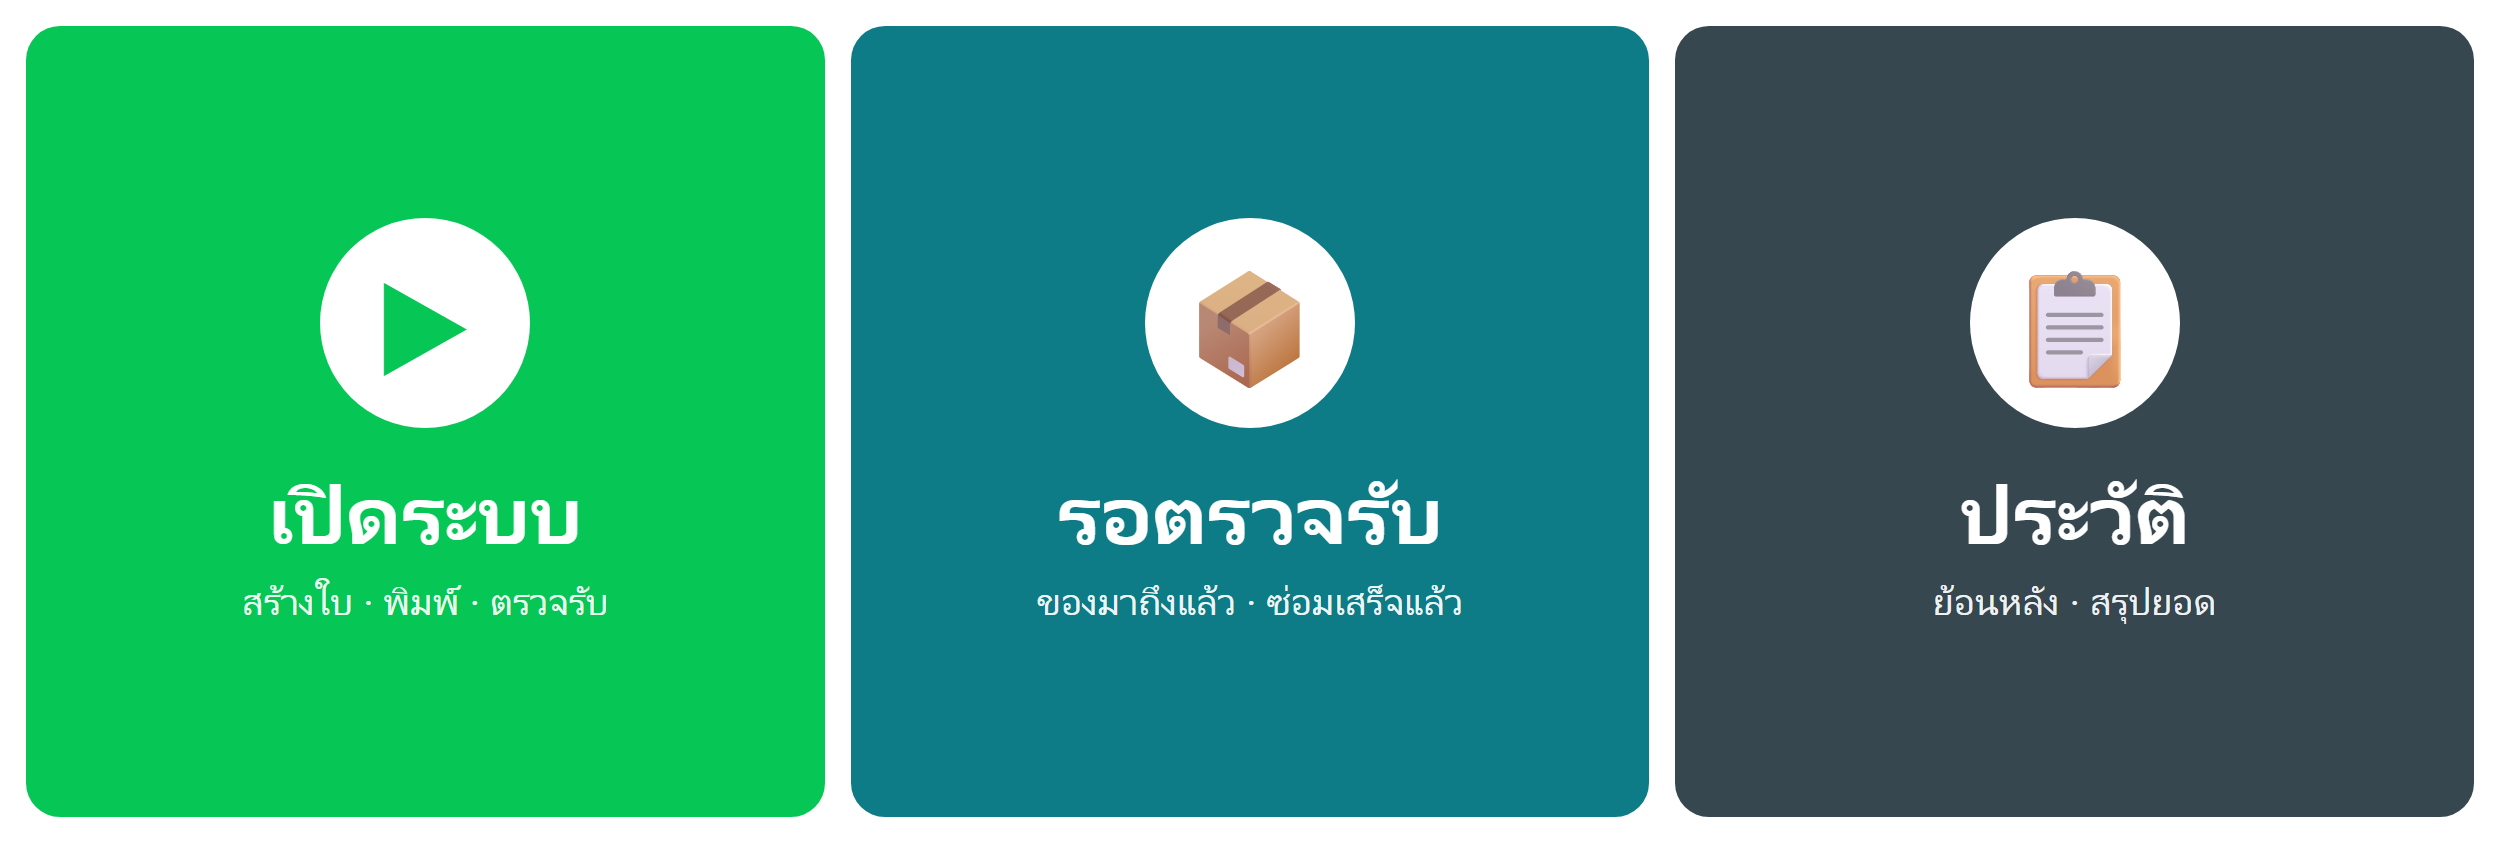
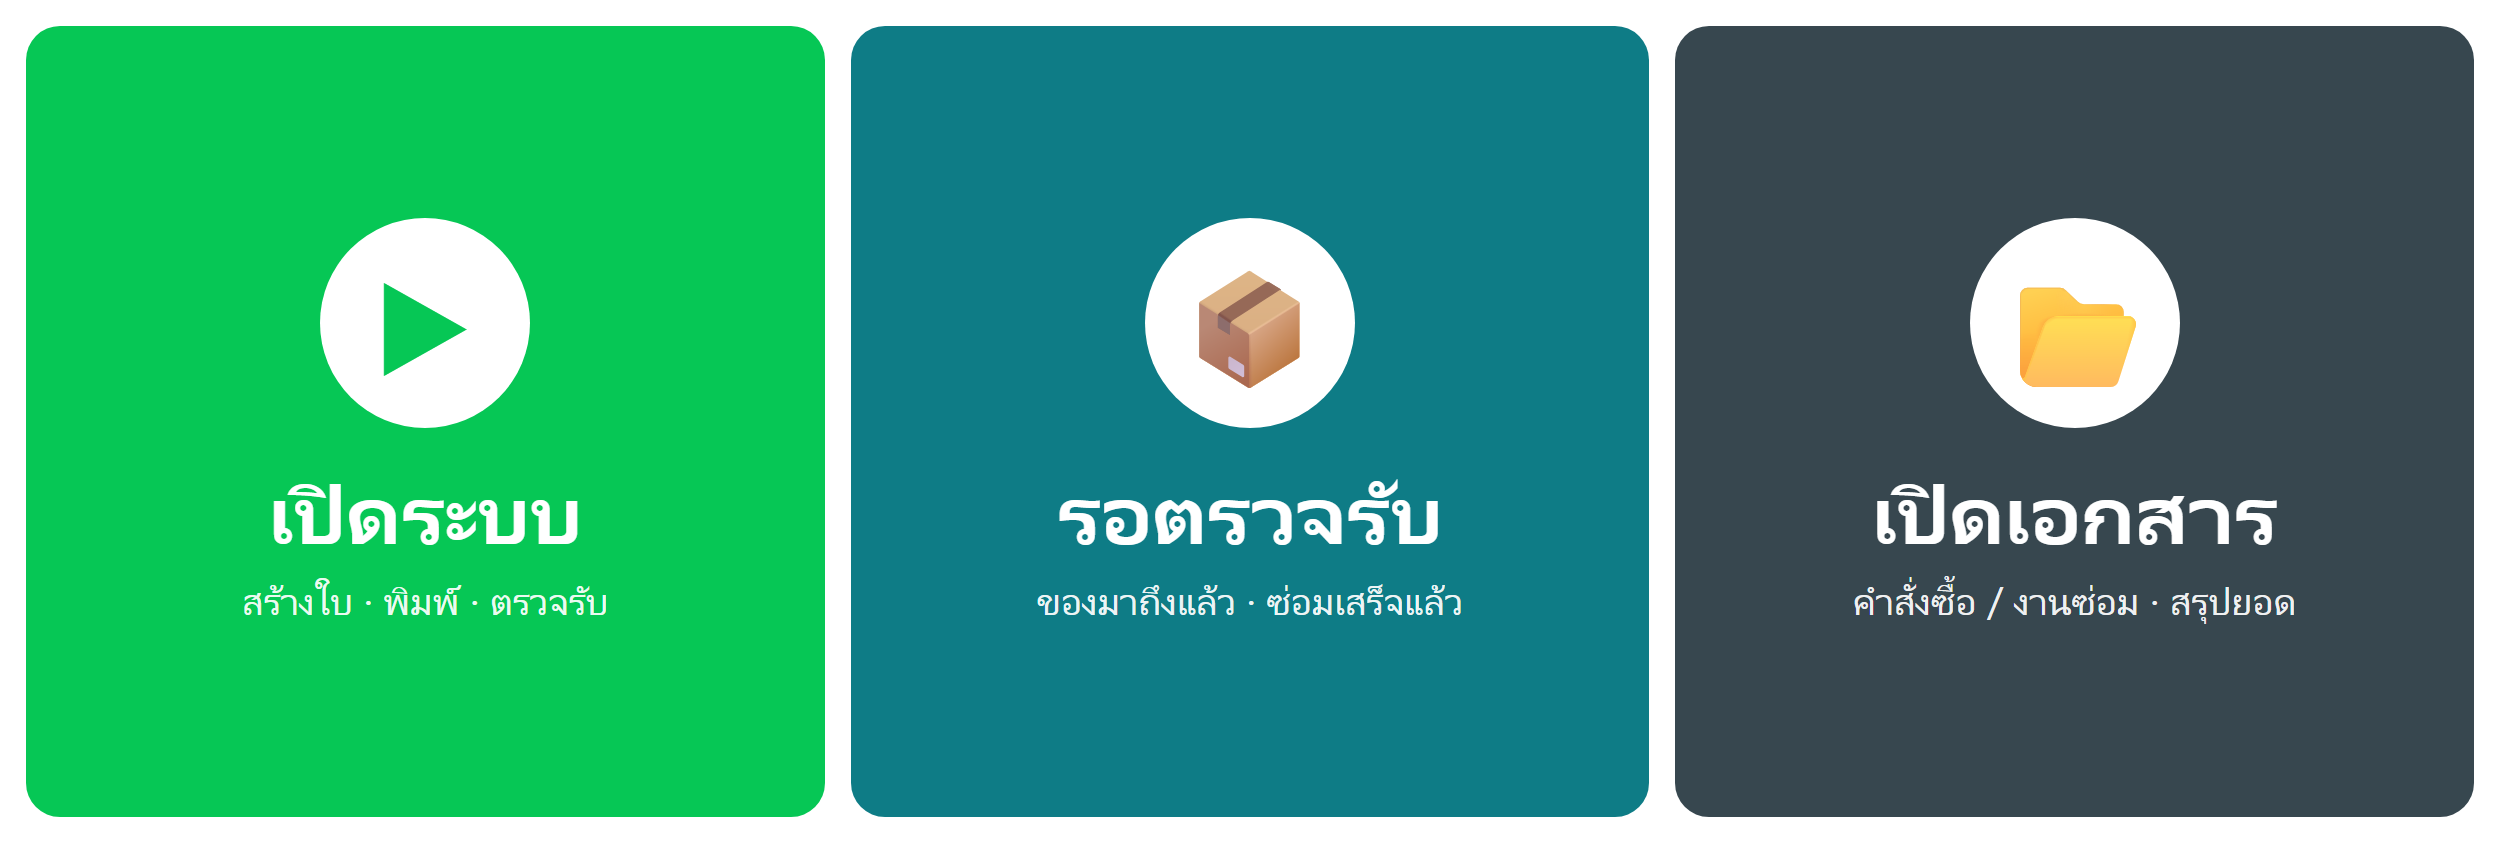
เปลี่ยนชื่อ "ประวัติย้อนหลัง" เป็น "เปิดเอกสารคำสั่งซื้อ/งานซ่อม"
ชื่อเดิมฟังเหมือนของที่จบไปแล้ว ทั้งที่หน้านี้เปิดดูใบจริงได้ทุกสถานะ
แก้ทั้งปุ่มในหน้าแรก หัวข้อหน้า และรูปเมนูของเสมียน

Changed region(s): [[0.7488, 0.5552, 0.936, 0.6477], [0.78, 0.3084, 0.8736, 0.4626], [0.7488, 0.6785, 0.936, 0.7402]]

diff --git a/index.html b/index.html
@@ -420,11 +420,11 @@ async function viewHome() {
     if (data.recent.length) {
       app.append(h('div', { class: 'group' },
         h('span', {}, 'รายการที่จบแล้ว (ล่าสุด)'),
-        h('span', { style: 'color:var(--blue);cursor:pointer', onclick: () => go('history') }, 'ดูย้อนหลัง ›')));
+        h('span', { style: 'color:var(--blue);cursor:pointer', onclick: () => go('history') }, 'เปิดเอกสาร ›')));
       data.recent.forEach((p) => app.append(poRow(p)));
     }
     app.append(h('button', { class: 'btn line full', style: 'margin:12px 0 4px', onclick: () => go('history') },
-      '📋 ประวัติย้อนหลัง · สรุปยอดตามแผนก'));
+      '📂 เปิดเอกสารคำสั่งซื้อ/งานซ่อม · สรุปยอด'));
   } else if (data.myRecent.length) {
     app.append(h('div', { class: 'group' }, t('myRecent')));
     data.myRecent.forEach((p) => app.append(poRow(p)));
@@ -452,7 +452,7 @@ function poRow(p) {
     who ? h('div', { class: 'm' }, who) : null);
 }
 
-/* ================== ประวัติย้อนหลัง + สรุปยอด ==================
+/* ================== เปิดเอกสารคำสั่งซื้อ/งานซ่อม + สรุปยอด ==================
  * หน้าแยกจากหน้าแรก เพราะข้อมูลย้อนหลังเยอะ ถ้ายัดในหน้าแรกจะเปิดช้า
  * กดค้นหาทีไหร่ ระบบค่อยไปอ่านชีตทีนั้น
  */
@@ -478,7 +478,7 @@ function histState() {
 async function viewHistory() {
   const u = state.me.user;
   if (!(u.isClerk || u.isExec || u.isCash)) throw new Error('เฉพาะเสมียน ผู้บริหาร และการเงินเท่านั้น');
-  header('ประวัติย้อนหลัง', 'ค้นหา · สรุปยอด');
+  header('เอกสารคำสั่งซื้อ/งานซ่อม', 'ค้นหา · สรุปยอด');
   const f = histState();
   const app = $('app'); app.innerHTML = '';
 
